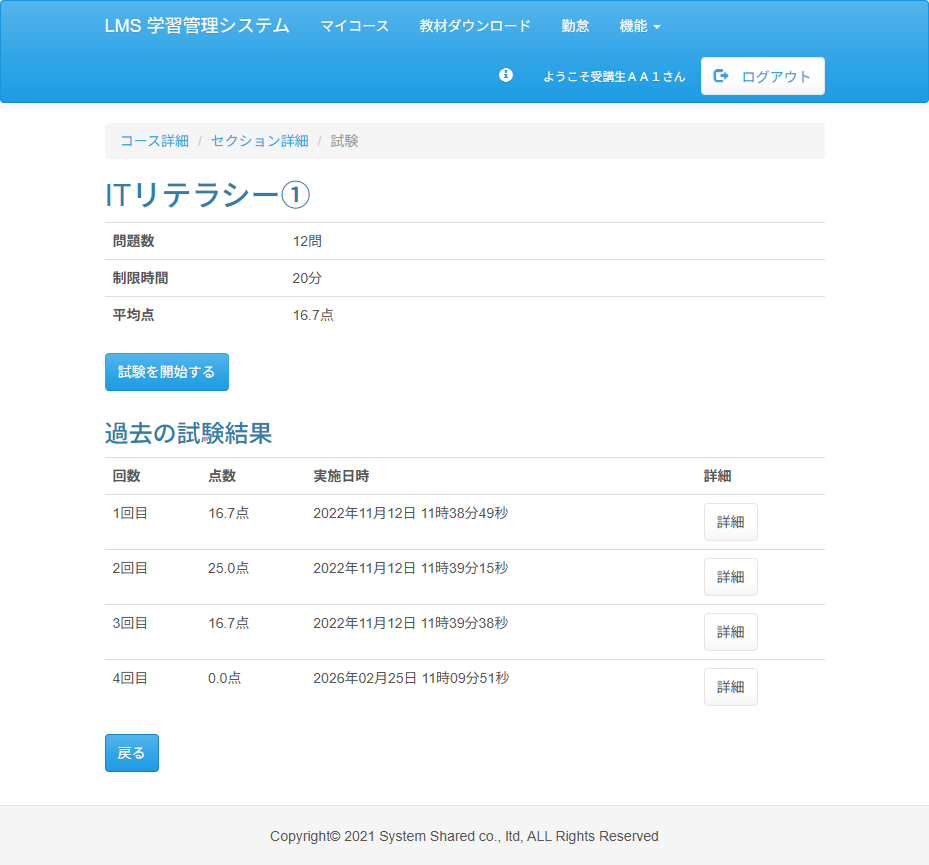
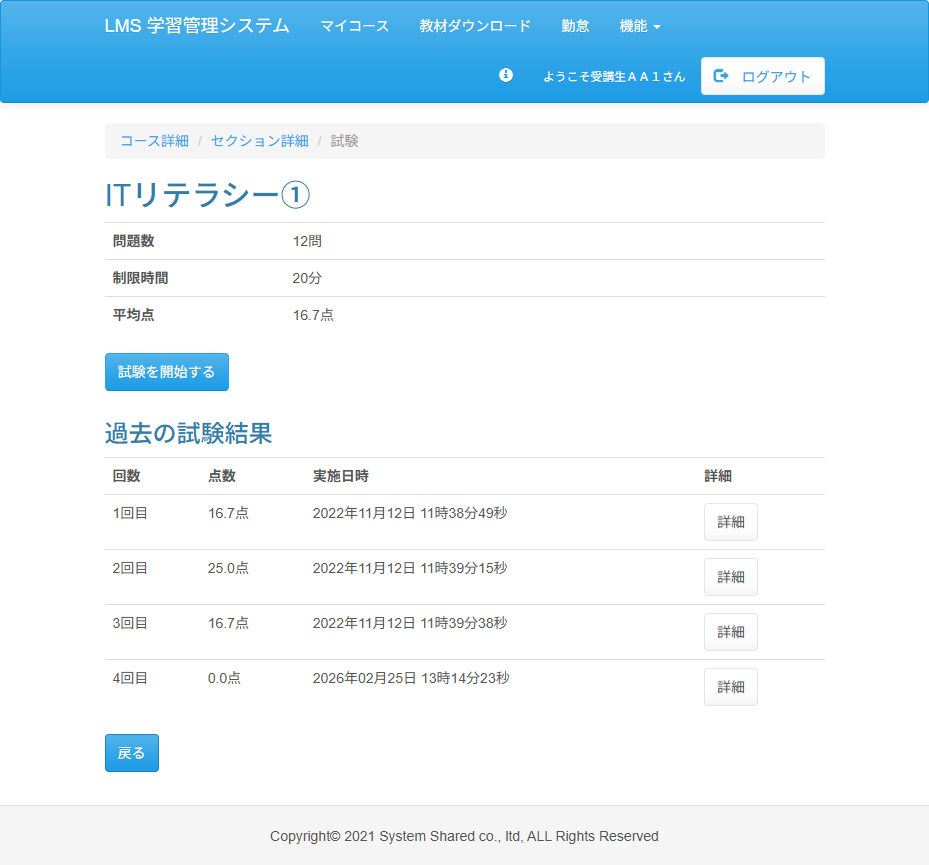
add:Case14.java 受講生 試験の実施 結果50点
test01～05と07、08はCase13と同じため、割愛

test06()メソッド
半数を正答、半数を誤答で入力し、「確認画面へ進む」ボタンを押下
WebElementを利用し、タイトルとURLが期待値通りかを確認するテストを作成した。
【入力値は以下の通り】
問1：1
問2：3
問3：1
問4：1
問5：4
問6：2
問7：3
問8：4
問9：4
問10：2
問11：2
問12：1
【期待値は以下の通り】
タイトル：ITリテラシー① | LMS
URL：http://localhost:8000/lms/exam/answerCheck

diff --git a/test_code_creation_oshimayuki/src/test/java/jp/co/sss/lms/ct/f05_exam/Case14.java b/test_code_creation_oshimayuki/src/test/java/jp/co/sss/lms/ct/f05_exam/Case14.java
@@ -1,7 +1,9 @@
 package jp.co.sss.lms.ct.f05_exam;
 
 import static jp.co.sss.lms.ct.util.WebDriverUtils.*;
+import static org.junit.jupiter.api.Assertions.*;
 
+import java.util.ArrayList;
 import java.util.Date;
 
 import org.junit.jupiter.api.AfterAll;
@@ -11,6 +13,8 @@ import org.junit.jupiter.api.MethodOrderer.OrderAnnotation;
 import org.junit.jupiter.api.Order;
 import org.junit.jupiter.api.Test;
 import org.junit.jupiter.api.TestMethodOrder;
+import org.openqa.selenium.By;
+import org.openqa.selenium.WebElement;
 
 /**
  * 結合テスト 試験実施機能
@@ -40,56 +44,145 @@ public class Case14 {
 	@Order(1)
 	@DisplayName("テスト01 トップページURLでアクセス")
 	void test01() {
-		// TODO ここに追加
+		webDriver.get("http://localhost:8000/lms");
+		assertEquals("ログイン | LMS", webDriver.getTitle());
+		assertEquals("ログイン", webDriver.findElement(By.tagName("h2")).getText());
+		getEvidence(new Object() {});
 	}
 
 	@Test
 	@Order(2)
 	@DisplayName("テスト02 初回ログイン済みの受講生ユーザーでログイン")
 	void test02() {
-		// TODO ここに追加
+		webDriver.findElement(By.id("loginId")).sendKeys("StudentAA01");
+		webDriver.findElement(By.id("password")).sendKeys("TestUser001");
+		webDriver.findElement(By.className("btn-primary")).click();
+
+		pageLoadTimeout(10);
+		assertEquals("コース詳細 | LMS", webDriver.getTitle());
+		assertEquals("http://localhost:8000/lms/course/detail", webDriver.getCurrentUrl());
+		getEvidence(new Object() {});
 	}
 
 	@Test
 	@Order(3)
 	@DisplayName("テスト03 「試験有」の研修日の「詳細」ボタンを押下しセクション詳細画面に遷移")
 	void test03() {
-		// TODO ここに追加
+		webDriver.findElement(By.xpath("//*[@id=\"main\"]/div/div[2]/div[2]/table/tbody/tr[2]/td[5]/form/input[3]")).click();
+		
+		pageLoadTimeout(30);
+		
+		assertEquals("セクション詳細 | LMS", webDriver.getTitle());
+		assertEquals("http://localhost:8000/lms/section/detail", webDriver.getCurrentUrl());
+		assertEquals("ITリテラシー①",webDriver.findElement(By.xpath("//*[@id=\"sectionDetail\"]/table[1]/tbody/tr[2]/td[1]")).getText());
+		
+		getEvidence(new Object() {});
 	}
 
 	@Test
 	@Order(4)
 	@DisplayName("テスト04 「本日の試験」エリアの「詳細」ボタンを押下し試験開始画面に遷移")
 	void test04() {
-		// TODO ここに追加
+		webDriver.findElement(By.xpath("//*[@id=\"sectionDetail\"]/table[1]/tbody/tr[2]/td[2]/form/input[1]")).click();
+		
+		pageLoadTimeout(30);
+		
+		assertEquals("http://localhost:8000/lms/exam/start", webDriver.getCurrentUrl());
+		assertEquals("試験【ITリテラシー①】 | LMS", webDriver.getTitle());
+		
+		getEvidence(new Object() {});
 	}
 
 	@Test
 	@Order(5)
 	@DisplayName("テスト05 「試験を開始する」ボタンを押下し試験問題画面に遷移")
 	void test05() {
-		// TODO ここに追加
+		webDriver.findElement(By.xpath("//*[@id=\"main\"]/div/form/input[4]")).click();
+		
+		pageLoadTimeout(30);
+		
+		assertEquals("ITリテラシー① | LMS", webDriver.getTitle());
+		assertEquals("http://localhost:8000/lms/exam/question", webDriver.getCurrentUrl());
+		
+		getEvidence(new Object() {});
 	}
 
 	@Test
 	@Order(6)
 	@DisplayName("テスト06 正答と誤答が半々で「確認画面へ進む」ボタンを押下し試験回答確認画面に遷移")
 	void test06() {
-		// TODO ここに追加
+		ArrayList<WebElement> answer = new ArrayList<WebElement>();
+		answer.add(webDriver.findElement(By.id("answer-0-0")));
+		answer.add(webDriver.findElement(By.id("answer-1-2")));
+		answer.add(webDriver.findElement(By.id("answer-2-0")));
+		answer.add(webDriver.findElement(By.id("answer-3-0")));
+		answer.add(webDriver.findElement(By.id("answer-4-3")));
+		answer.add(webDriver.findElement(By.id("answer-5-1")));
+		answer.add(webDriver.findElement(By.id("answer-6-2")));
+		answer.add(webDriver.findElement(By.id("answer-7-3")));
+		answer.add(webDriver.findElement(By.id("answer-8-3")));
+		answer.add(webDriver.findElement(By.id("answer-9-1")));
+		answer.add(webDriver.findElement(By.id("answer-10-1")));
+		answer.add(webDriver.findElement(By.id("answer-11-0")));
+		
+		for(int i = 0;i<answer.size();i++) {
+			answer.get(i).click();
+			String suffix = "answer"+String.format("%02d", i);
+			getEvidence(new Object() {},suffix);
+			scrollBy("350");
+		}
+		
+		pageLoadTimeout(60);
+		
+		webDriver.findElement(By.xpath("//*[@id=\"examQuestionForm\"]/div[13]/fieldset/input")).click();
+		
+		pageLoadTimeout(30);
+		
+		assertEquals("ITリテラシー① | LMS", webDriver.getTitle());
+		assertEquals("http://localhost:8000/lms/exam/answerCheck", webDriver.getCurrentUrl());
+		
+		getEvidence(new Object() {},"answerConfirmation");
 	}
 
 	@Test
 	@Order(7)
 	@DisplayName("テスト07 「回答を送信する」ボタンを押下し試験結果画面に遷移")
 	void test07() throws InterruptedException {
-		// TODO ここに追加
+		scrollBy("4000");
+		
+		pageLoadTimeout(30);
+		
+		webDriver.findElement(By.id("sendButton")).click();
+		
+		webDriver.switchTo().alert().dismiss();
+		
+		pageLoadTimeout(30);
+		
+		assertEquals("ITリテラシー① | LMS", webDriver.getTitle());
+		assertEquals("http://localhost:8000/lms/exam/result", webDriver.getCurrentUrl());
+		assertTrue(webDriver.findElement(By.xpath("//*[@id=\"examBeing\"]/h2/small")).isDisplayed());
+		
+		getEvidence(new Object() {});
 	}
 
 	@Test
 	@Order(8)
 	@DisplayName("テスト08 「戻る」ボタンを押下し試験開始画面に遷移後当該試験の結果が反映される")
 	void test08() {
-		// TODO ここに追加
+		scrollBy("5000");
+		
+		pageLoadTimeout(30);
+		
+		webDriver.findElement(By.xpath("//*[@id=\"examBeing\"]/div[13]/fieldset/form/input[1]")).click();
+		
+		pageLoadTimeout(30);
+		
+		assertEquals("試験【ITリテラシー①】 | LMS", webDriver.getTitle());
+		assertEquals("http://localhost:8000/lms/exam/start", webDriver.getCurrentUrl());
+		assertTrue(webDriver.findElement(By.xpath("//*[@id=\"main\"]/div/table[2]/tbody/tr[5]/td[1]")).isDisplayed());
+		assertEquals("50.0点", webDriver.findElement(By.xpath("//*[@id=\"main\"]/div/table[2]/tbody/tr[6]/td[2]")).getText());
+		
+		getEvidence(new Object() {});
 	}
 
 }
